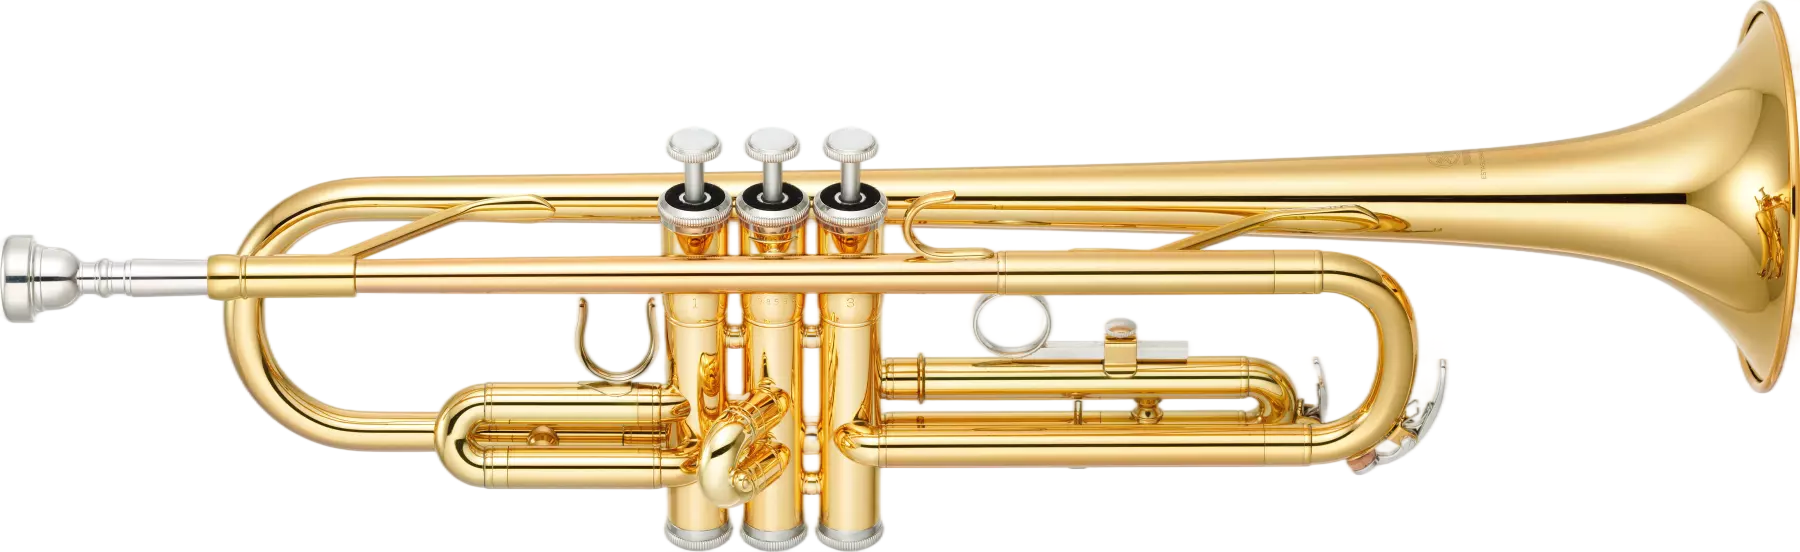
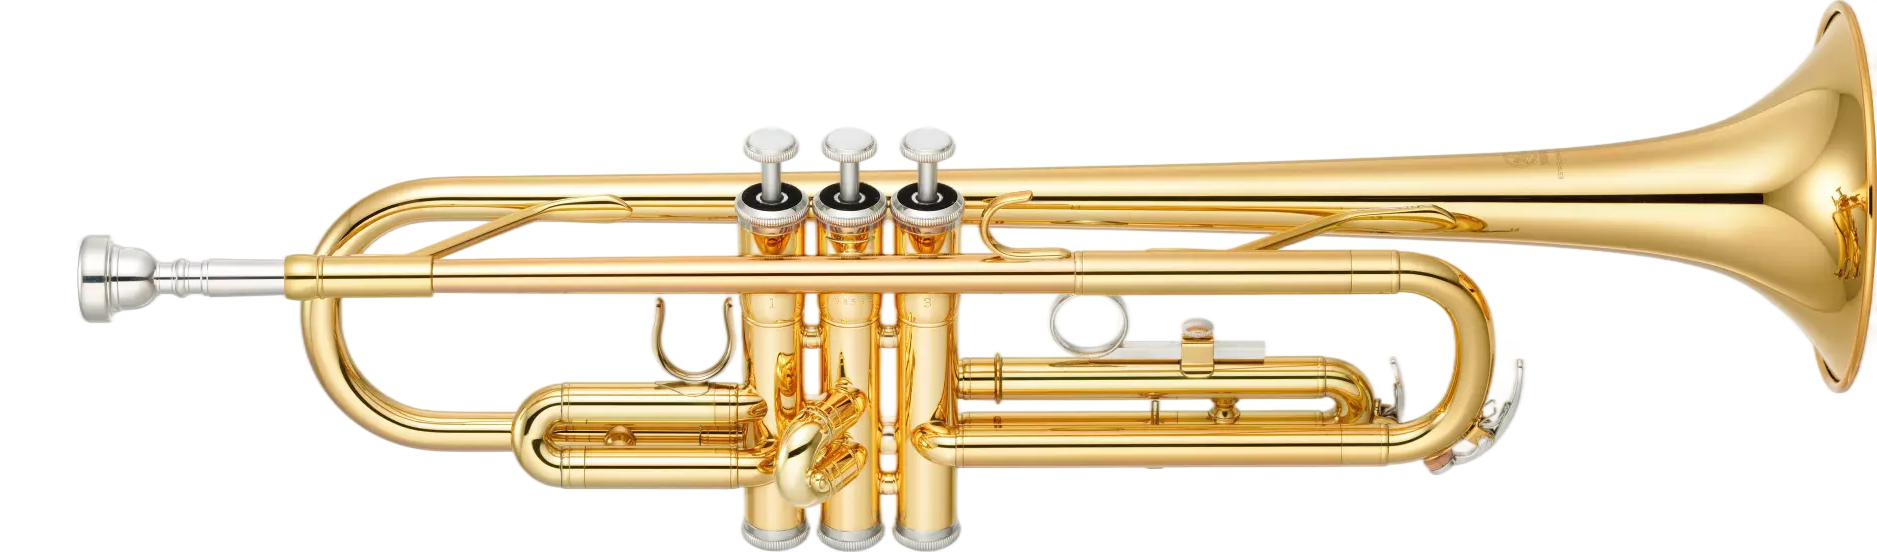
3 mars 2026: centrer les éléments, régler de multiples problèmes (notamment reliés à la taille des images), création des fichiers pour les instruments individuels (4h30)

diff --git a/index.html b/index.html
@@ -9,8 +9,12 @@
 
     <body>
         <div id="top">
-            <h1>Site Web Musical</h1>
-            <h2>Pratique de doigtés</h2>
+            <div id="title1">
+                <h1>Site Web Musical</h1>
+            </div>
+            <div id="title2">
+                <h2>Pratique de doigtés musicaux</h2>
+            </div>
         </div>
         
         <hr>
@@ -23,12 +27,21 @@
                 <div id="saxophoneBox" class="instrumentBox">
                     <!--Name-->
                     <div id="saxophoneName" class="instrumentName">
-                        <p">Saxophone</p>
+                        <p>Saxophone</p>
                     </div>
                     <!--Image-->
                     <div id="saxophoneImage" class="instrumentImage">
-                        <img src="Images/saxophone.png" alt="Image de saxophone" width="122" height="270">
+                        <img src="Images/saxophone.png" alt="Image de saxophone" height="330">
                     </div>
+                    <!--Click button-->
+                    <div class="clickButton">
+                        <a href="Instruments/saxophone.html">
+                            <button>
+                                Pratiquer
+                            </button>
+                        </a>
+                    </div>
+                    <br>
                 </div>
 
                 <!--Clarinet-->
@@ -39,8 +52,17 @@
                     </div>
                     <!--Image-->
                     <div id="clarinetImage" class="instrumentImage">
-                        <img src="Images/clarinette.png" alt="Image de clarinette" width="127.8" height="270">
+                        <img src="Images/clarinette.png" alt="Image de clarinette" height="330">
                     </div>
+                    <!--Click button-->
+                    <div class="clickButton">
+                        <a href="Instruments/clarinet.html">
+                            <button>
+                                Pratiquer
+                            </button>
+                        </a>
+                    </div>
+                    <br>
                 </div>
            </div>
 
@@ -56,20 +78,38 @@
                     </div>
                     <!--Image-->
                     <div id="fluteImage" class="instrumentImage">
-                        <img src="Images/flute.png" alt="Image de flute traversière" width="305.745" height="153">
+                        <img src="Images/flute.png" alt="Image de flute traversière" height="153">
                     </div>
+                    <!--Click button-->
+                    <div class="clickButton">
+                        <a href="Instruments/flute.html">
+                            <button>
+                                Pratiquer
+                            </button>
+                        </a>
+                    </div>
+                    <br>
                 </div>
 
                 <!--Trumpet-->
                 <div id="trumpetBox" class="instrumentBox">
                     <!--Name-->
                     <div id="fluteImage" class="instrumentName">
-                        <p class="instrumentName">Trompette</p>
+                        <p>Trompette</p>
                     </div>
                     <!--Image-->
                     <div id="trumpetImage" class="instrumentImage">
-                        <img src="Images/trompette.png" alt="Image de trompette" width="305.745" height="93.7618">
+                        <img src="Images/trompette.png" alt="Image de trompette"  height="153">
                     </div>
+                    <!--Click button-->
+                    <div class="clickButton">
+                        <a href="Instruments/trumpet.html">
+                            <button>
+                                Pratiquer
+                            </button>
+                        </a>
+                    </div>    
+                    <br>              
                 </div>
             </div>
 

diff --git a/main.css b/main.css
@@ -1,30 +1,53 @@
 body{
     background-color: rgba(7, 7, 7, 0.905);
 }
+
 #top{
     background-color: dimgrey;
+    text-align:center;
+}
+
+#title1{
+    font-size: 130%;
+}
+
+
+#title2{
+    font-size: 120%;
 }
 
 .instrumentBox{
     border-style: solid;
     border-color:dimgray;
+    border-radius: 50px;
     background-color: rgb(36, 36, 36);
+
 }
+
 .instrumentName{
     color: aliceblue;
+    text-align:center;
+    font-size: 180%;
 }
 
-#instrumentsBox{
-    height: 5vh;
-    background-color: rgb(255, 0, 0);
+
+
+.instrumentImage{
+    display: flex;
+    justify-content: center;
 }
 
+.clickButton{
+    text-align:center;
+    font-size: 150%;
+}
 
 
 
 #row1, #row2{
-    overflow:auto;
+    overflow:hidden;
 }
+
 
 
 #saxophoneBox, #fluteBox{
@@ -46,15 +69,4 @@ body{
 }
 
 
-#allInstruments{
-    height: 50%;
-}
-
-#row1{
-    height: 40vh;
-}
-
-#row2{
-    height: 40vh;
-}
 

diff --git a/Instruments/flute.html b/Instruments/flute.html
@@ -1,0 +1,11 @@
+<!DOCTYPE html>
+<html lang="en">
+    <head>
+        <meta charset="UTF-8">
+        <meta name="viewport" content="width=device-width, initial-scale=1.0">
+        <title>Flute traversière</title>
+    </head>
+    <body>
+        yo
+    </body>
+</html>

diff --git a/Instruments/clarinet.html b/Instruments/clarinet.html
@@ -1,0 +1,11 @@
+<!DOCTYPE html>
+<html lang="en">
+    <head>
+        <meta charset="UTF-8">
+        <meta name="viewport" content="width=device-width, initial-scale=1.0">
+        <title>Clarinette</title>
+    </head>
+    <body>
+        yo
+    </body>
+</html>

diff --git a/Instruments/saxophone.html b/Instruments/saxophone.html
@@ -1,0 +1,11 @@
+<!DOCTYPE html>
+<html lang="en">
+    <head>
+        <meta charset="UTF-8">
+        <meta name="viewport" content="width=device-width, initial-scale=1.0">
+        <title>Saxophone</title>
+    </head>
+    <body>
+        yo
+    </body>
+</html>

diff --git a/Instruments/trumpet.html b/Instruments/trumpet.html
@@ -1,0 +1,11 @@
+<!DOCTYPE html>
+<html lang="en">
+    <head>
+        <meta charset="UTF-8">
+        <meta name="viewport" content="width=device-width, initial-scale=1.0">
+        <title>Trompette</title>
+    </head>
+    <body>
+        yo
+    </body>
+</html>
